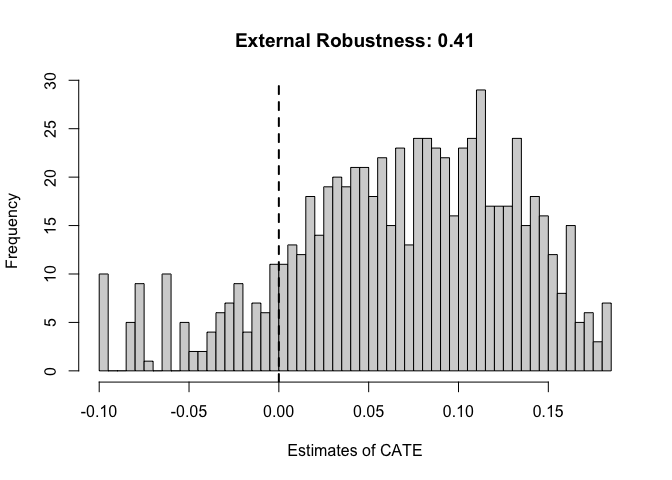
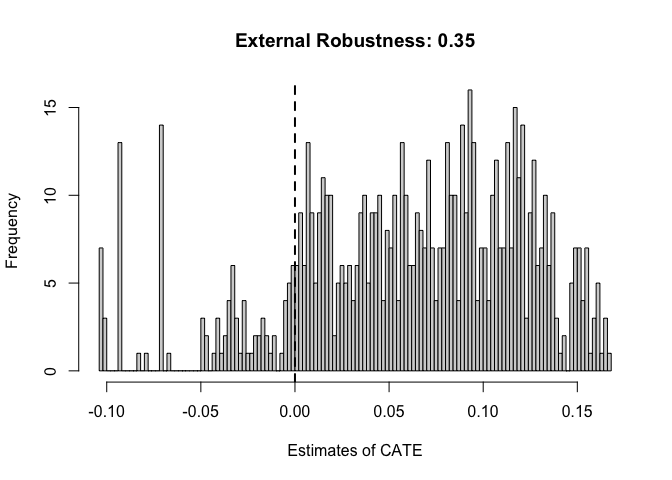
update ReadMe

diff --git a/README.md b/README.md
@@ -169,12 +169,14 @@ summary(exr_out)
 ```
 
     ## 
+    ## CATE Estimator: grf
+    ## 
     ## -------------------------
-    ## External Robustness: 0.41
+    ## External Robustness: 0.35
     ## -------------------------
     ## 
-    ##  Method    Estimate        With CI 
-    ##     grf   0.4103921 * 1.110223e-16 
+    ##    Estimate   With CI 
+    ##    0.349225 *       0 
     ## ---
     ## Note: 0 ' ' 0.14 (Probability Surveys) '*' 0.57 (MTurk Samples) '**' 1
 
